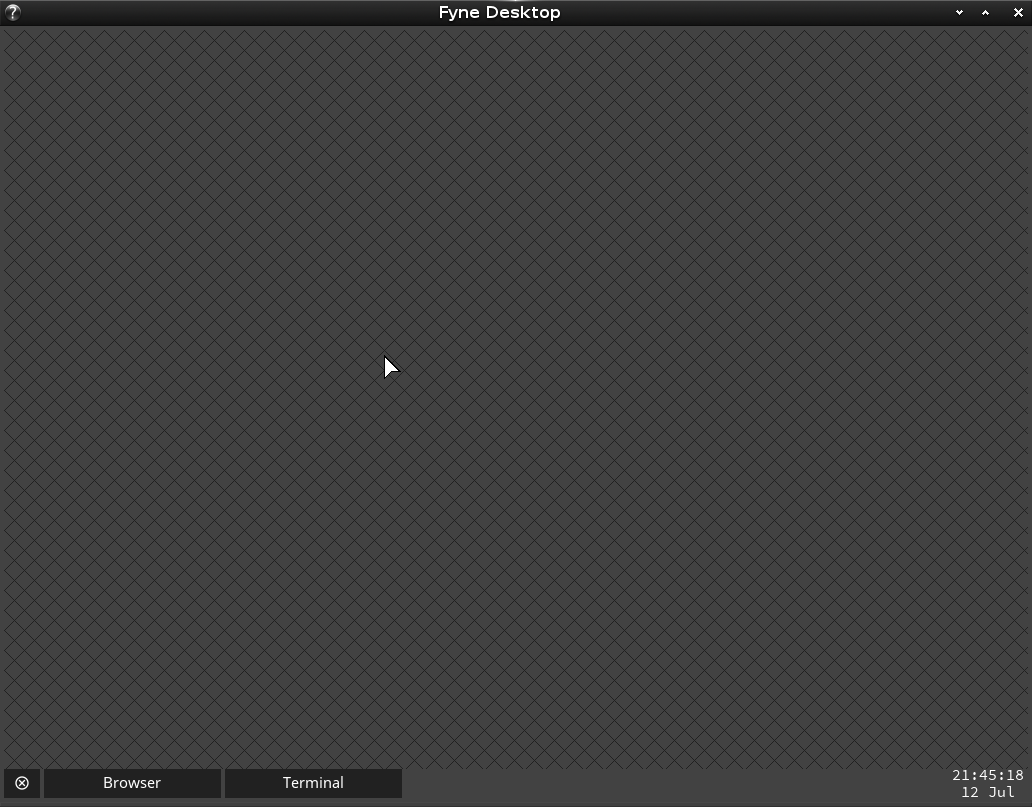
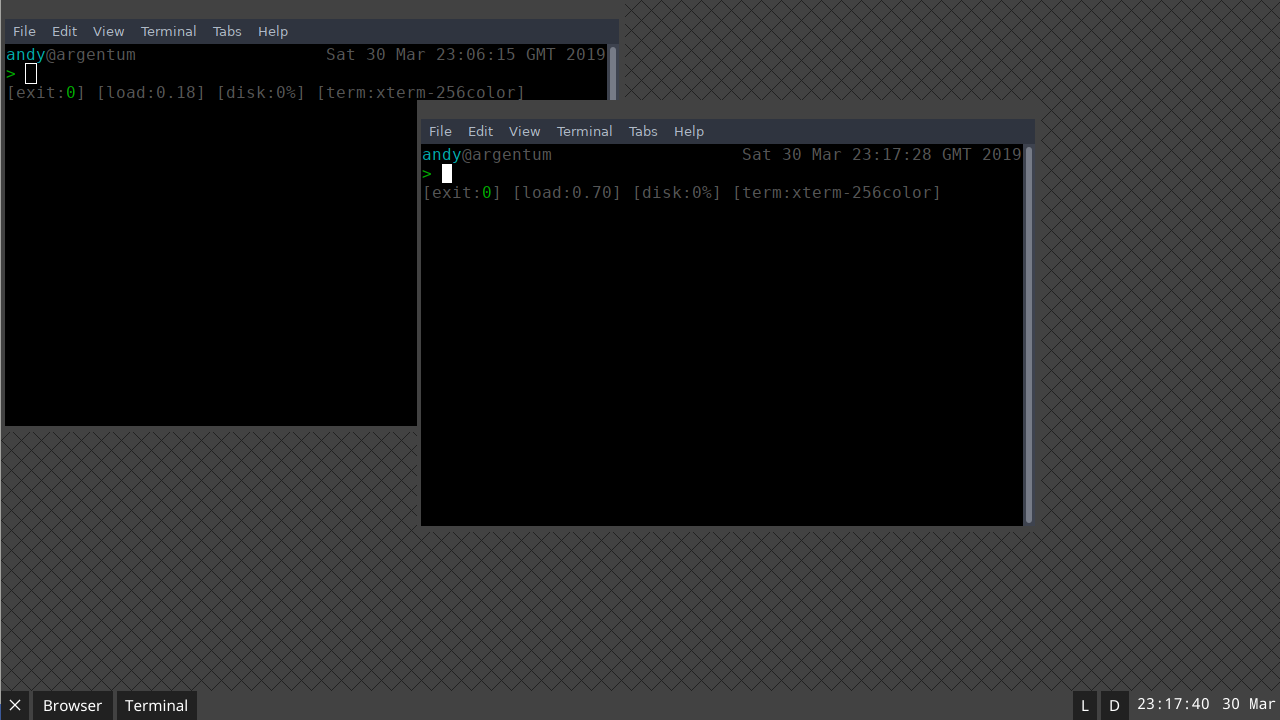
Update readme and screenshot

diff --git a/README.md b/README.md
@@ -1,5 +1,9 @@
 <p align="center">
   <a href="https://godoc.org/github.com/fyne-io/desktop" title="GoDoc Reference" rel="nofollow"><img src="https://img.shields.io/badge/go-documentation-blue.svg?style=flat" alt="GoDoc Reference"></a>
[1 lines of base64/hex data omitted]
+  <a href='http://gophers.slack.com/messages/fyne'><img src='https://img.shields.io/badge/join-us%20on%20slack-gray.svg?longCache=true&logo=slack&colorB=blue' alt='Join us on Slack' /></a>
+
+  <br />
   <a href="https://goreportcard.com/report/github.com/fyne-io/desktop"><img src="https://goreportcard.com/badge/github.com/fyne-io/desktop" alt="Code Status" /></a>
   <a href="https://travis-ci.org/fyne-io/desktop"><img src="https://travis-ci.org/fyne-io/desktop.svg" alt="Build Status" /></a>
   <a href='https://coveralls.io/github/fyne-io/desktop?branch=develop'><img src='https://coveralls.io/repos/github/fyne-io/desktop/badge.svg?branch=develop' alt='Coverage Status' /></a>
@@ -12,23 +16,30 @@ However it is available for anyone to test, play with or contribute to.
 
 # Prerequisites
 
-Before you can use the Fyne tools you need to have a stable copy of EFL installed. This is being automated by our
-[bootstrap](https://github.com/fyne-io/bootstrap/) scripts, but for now you can follow the
-[setup instructions](https://github.com/fyne-io/bootstrap/blob/master/README.md).
+You will need the fyne toolkit installed which can be downloaded by the
+standard go tools:
+
+    go get -u fyne.io/fyne
 
 # Getting Started
 
 Using standard go tools you can install Fyne's desktop using:
 
-    go get github.com/fyne-io/desktop
+    go get github.com/fyne-io/desktop/cmd/fynedesk
 
-And you can run that simply as:
+And you can run that in an embedded X window for testing using:
 
-    cd $GOPATH/src/github.com/fyne-io/desktop
-    go run cmd/fynedesk/main.go
+    DISPLAY=:0 Xephyr :1 -screen 1280x720
+    DISPLAY=:1 fynedesk
 
 It should look like this:
 
 <p align="center" markdown="1">
   <img src="desktop-dark-current.png" alt="Fyne Desktop - Dark" />
 </p>
+
+If you run the command when there is a window manager running, or on
+an operating system that does not support window managers (Windows or
+macOS) then the app will start in UI test mode.
+When loaded in this way you can run all of the features except the
+controlling of windows - they will load on your main desktop.
